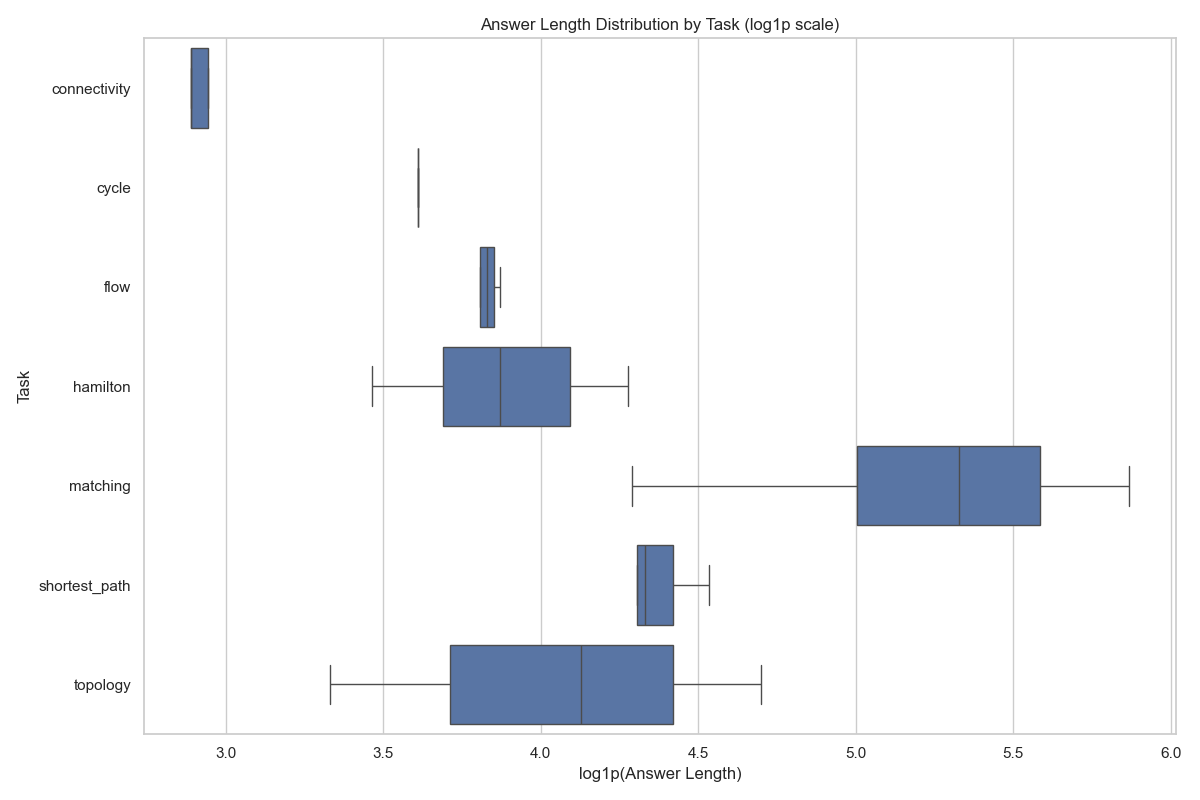
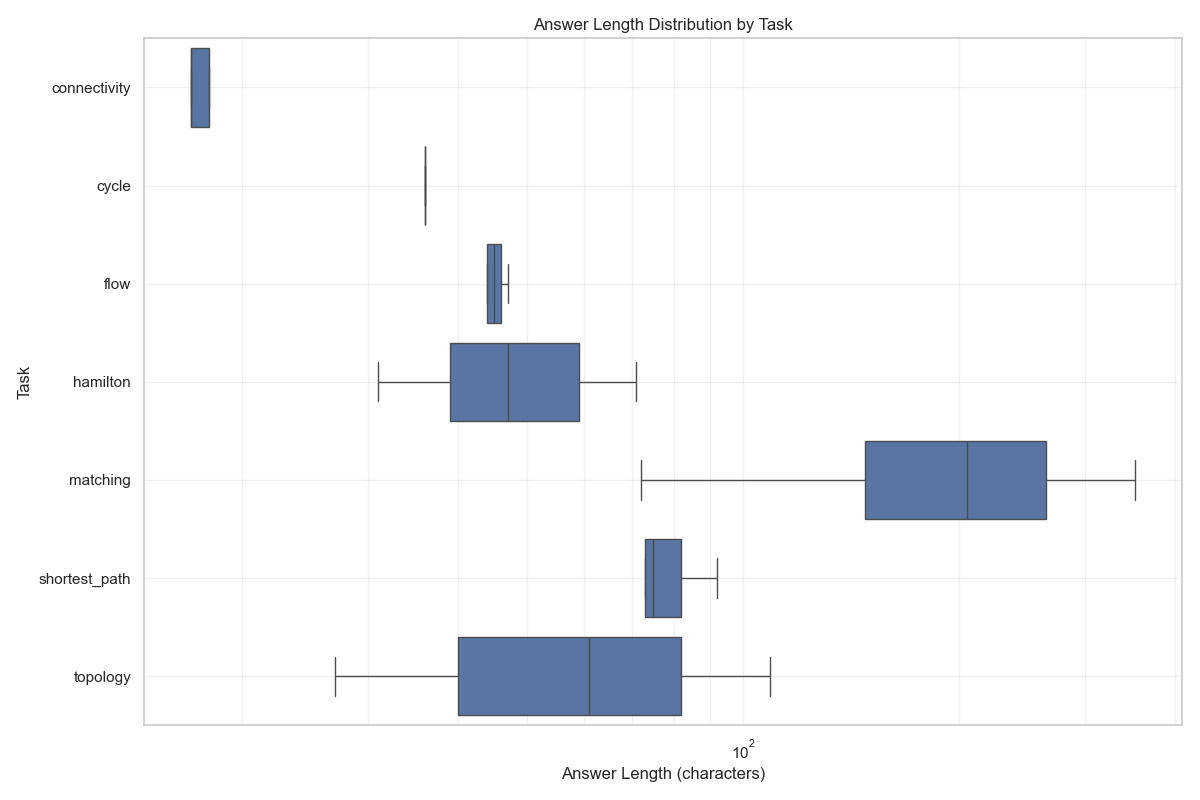
EDA

diff --git a/EDA/nlgraph.py b/EDA/nlgraph.py
@@ -193,44 +193,65 @@ def run_eda():
     plt.savefig(plot_path3)
     print(f"Saved: {plot_path3}")
 
-    # For log scaling, use log1p-transformed copies to avoid zero issues
-    df["query_length_log1p"] = np.log1p(df["query_length"])
-    df["answer_length_log1p"] = np.log1p(df["answer_length"])
-
-    # Plot 4: Query Length vs. Task (Boxplot, log1p)
+    # Plot 4: Query Length vs. Task (Boxplot)
     plt.figure(figsize=(12, 8))
-    sns.boxplot(data=df, y="task", x="query_length_log1p")
-    plt.title("Query Length Distribution by Task (log1p scale)")
-    plt.xlabel("log1p(Query Length)")
+    sns.boxplot(data=df, y="task", x="query_length")
+    plt.title("Query Length Distribution by Task")
+    plt.xlabel("Query Length (characters)")
     plt.ylabel("Task")
+    # Use log scale for x-axis if distribution is heavily skewed
+    plt.xscale('log')
+    from matplotlib.ticker import LogLocator, NullFormatter
+    ax = plt.gca()
+    ax.xaxis.set_major_locator(LogLocator(base=10.0, numticks=15))
+    ax.xaxis.set_minor_locator(LogLocator(base=10.0, subs=np.arange(2, 10), numticks=100))
+    ax.xaxis.set_minor_formatter(NullFormatter())
+    ax.grid(True, which='both', alpha=0.3)
     plt.tight_layout()
     plot_path4 = os.path.join(output_dir, "query_length_by_task.png")
     plt.savefig(plot_path4)
     print(f"Saved: {plot_path4}")
 
-    # Plot 5: Answer Length vs. Task (Boxplot, log1p)
+    # Plot 5: Answer Length vs. Task (Boxplot)
     plt.figure(figsize=(12, 8))
-    sns.boxplot(data=df, y="task", x="answer_length_log1p")
-    plt.title("Answer Length Distribution by Task (log1p scale)")
-    plt.xlabel("log1p(Answer Length)")
+    sns.boxplot(data=df, y="task", x="answer_length")
+    plt.title("Answer Length Distribution by Task")
+    plt.xlabel("Answer Length (characters)")
     plt.ylabel("Task")
+    plt.xscale('log')
+    ax = plt.gca()
+    ax.xaxis.set_major_locator(LogLocator(base=10.0, numticks=15))
+    ax.xaxis.set_minor_locator(LogLocator(base=10.0, subs=np.arange(2, 10), numticks=100))
+    ax.xaxis.set_minor_formatter(NullFormatter())
+    ax.grid(True, which='both', alpha=0.3)
     plt.tight_layout()
     plot_path5 = os.path.join(output_dir, "answer_length_by_task.png")
     plt.savefig(plot_path5)
     print(f"Saved: {plot_path5}")
 
-    # Plot 6: Query Length vs. Answer Length (Scatterplot, log1p)
+    # Plot 6: Query Length vs. Answer Length (Scatterplot)
     plt.figure(figsize=(10, 8))
     sns.scatterplot(
         data=df,
-        x="query_length_log1p",
-        y="answer_length_log1p",
+        x="query_length",
+        y="answer_length",
         alpha=0.1,
         s=10,
     )
-    plt.title("Query Length vs. Answer Length (log1p)")
-    plt.xlabel("log1p(Query Length)")
-    plt.ylabel("log1p(Answer Length)")
+    plt.title("Query Length vs. Answer Length")
+    plt.xlabel("Query Length (characters)")
+    plt.ylabel("Answer Length (characters)")
+    # Using log scale can help visualize dense clusters
+    plt.xscale('log')
+    plt.yscale('log')
+    ax = plt.gca()
+    ax.xaxis.set_major_locator(LogLocator(base=10.0, numticks=15))
+    ax.xaxis.set_minor_locator(LogLocator(base=10.0, subs=np.arange(2, 10), numticks=100))
+    ax.xaxis.set_minor_formatter(NullFormatter())
+    ax.yaxis.set_major_locator(LogLocator(base=10.0, numticks=15))
+    ax.yaxis.set_minor_locator(LogLocator(base=10.0, subs=np.arange(2, 10), numticks=100))
+    ax.yaxis.set_minor_formatter(NullFormatter())
+    ax.grid(True, which='both', alpha=0.3)
     plt.tight_layout()
     plot_path6 = os.path.join(output_dir, "query_vs_answer_length_scatter.png")
     plt.savefig(plot_path6)
@@ -250,16 +271,8 @@ def run_eda():
     plt.savefig(plot_path7)
     print(f"Saved: {plot_path7}")
 
-    # Optional: save a small CSV snapshot for quick manual checking
-    # snapshot_path = os.path.join(output_dir, "sample_rows.csv")
-    # df.sample(min(200, len(df)), random_state=42)[
-    #     ["task", "query", "answer", "answer_type", "answer_binary_norm", "numeric_value"]
-    # ].to_csv(snapshot_path, index=False, encoding="utf-8")
-    # print(f"Saved sample snapshot: {snapshot_path}")
-
     print("\nEDA complete. Check the 'EDA/eda_plots_nlgraph' directory for visualizations.")
 
 
 if __name__ == "__main__":
-    # pip install datasets pandas seaborn matplotlib numpy
     run_eda()

diff --git a/EDA/graphwiz.py b/EDA/graphwiz.py
@@ -2,7 +2,7 @@ import seaborn as sns
 import matplotlib.pyplot as plt
 from datasets import load_dataset
 import os
-import numpy as np # Import numpy for np.select
+import numpy as np
 
 def run_eda():
     """
@@ -16,7 +16,6 @@ def run_eda():
     print(dataset)
 
     # --- 2. Initial Inspection ---
-    # Check the features of the 'train' split
     if 'train' not in dataset:
         print("Error: 'train' split not found in dataset.")
         return
@@ -27,7 +26,6 @@ def run_eda():
     print("\n--- First Example Record (train[0]) ---")
     example = dataset['train'][0]
     for key, value in example.items():
-        # Truncate long values for readability
         value_str = str(value)
         if len(value_str) > 200:
             value_str = value_str[:200] + "..."
@@ -49,23 +47,15 @@ def run_eda():
     df['answer_length'] = df['answer'].str.len()
 
     print("Performing analysis")
-    # Analysis 1: Categorize answer types (Binary, Numeric, Other.)
-    # We use regex to find answers that end with specific patterns
-
-    # Define conditions for each answer type
     binary_cond = df['answer'].str.contains(r'###\s*(Yes|No)\.?$', regex=True, na=False)
-    # This pattern looks for integers (e.g., ### 10) or floats (e.g., ### 10.5)
     numeric_cond = df['answer'].str.contains(r'###\s*(\d+(\.\d+)?)\.?$', regex=True, na=False)
 
-    # Create the conditions and choices lists for np.select
     conditions = [
         binary_cond,
         numeric_cond
     ]
     choices = ['Binary', 'Numeric']
 
-    # Use np.select to create the new column
-    # default='Other' will be assigned to all rows that don't meet other conditions
     df['answer_type'] = np.select(conditions, choices, default='Other')
 
     # --- 5. Summary Statistics ---
@@ -82,7 +72,6 @@ def run_eda():
     # --- 7. Visualization ---
     print("\nGenerating and saving visualizations...")
 
-    # Create an 'eda_plots' directory if it doesn't exist
     output_dir = "EDA/eda_plots_graphwiz"
     os.makedirs(output_dir, exist_ok=True)
 
@@ -127,12 +116,10 @@ def run_eda():
 
     # Plot 4: Query Length vs. Task (Boxplot)
     plt.figure(figsize=(12, 8))
-    # Using query_length (unclipped)
     sns.boxplot(data=df, y='task', x='query_length')
     plt.title('Query Length Distribution by Task')
     plt.xlabel('Query Length (characters)')
     plt.ylabel('Task')
-    # Use log scale for x-axis if distribution is heavily skewed
     plt.xscale('log')
     plt.tight_layout()
     plot_path4 = os.path.join(output_dir, 'query_length_by_task.png')
@@ -141,12 +128,10 @@ def run_eda():
 
     # Plot 5: Answer Length vs. Task (Boxplot)
     plt.figure(figsize=(12, 8))
-    # Using answer_length (unclipped)
     sns.boxplot(data=df, y='task', x='answer_length')
     plt.title('Answer Length Distribution by Task')
     plt.xlabel('Answer Length (characters)')
     plt.ylabel('Task')
-    # Use log scale for x-axis if distribution is heavily skewed
     plt.xscale('log')
     plt.tight_layout()
     plot_path5 = os.path.join(output_dir, 'answer_length_by_task.png')
@@ -155,12 +140,10 @@ def run_eda():
 
     # Plot 6: Query Length vs. Answer Length (Scatterplot)
     plt.figure(figsize=(10, 8))
-    # Using alpha=0.1 to handle overplotting
     sns.scatterplot(data=df, x='query_length', y='answer_length', alpha=0.1, s=10)
     plt.title('Query Length vs. Answer Length')
     plt.xlabel('Query Length (characters)')
     plt.ylabel('Answer Length (characters)')
-    # Using log scale can help visualize dense clusters
     plt.xscale('log')
     plt.yscale('log')
     plt.tight_layout()
@@ -180,11 +163,8 @@ def run_eda():
     plt.savefig(plot_path7)
     print(f"Saved: {plot_path7}")
 
-    # === Specific EDA Plots End ===
 
     print("\nEDA complete. Check the 'eda_plots' directory for visualizations.")
 
 if __name__ == "__main__":
-    # Install necessary packages if you don't have them
-    # pip install datasets pandas seaborn matplotlib
     run_eda()

diff --git a/EDA/nlgraph_loader.py b/EDA/nlgraph_loader.py
@@ -21,7 +21,6 @@ _TASK_DIRS = [
     "topology",
 ]
 
-# Accept common split name variants and normalize to HF split keys.
 _SPLIT_ALIASES = {
     "train": ["train"],
     "validation": ["validation", "valid", "val", "dev"],
